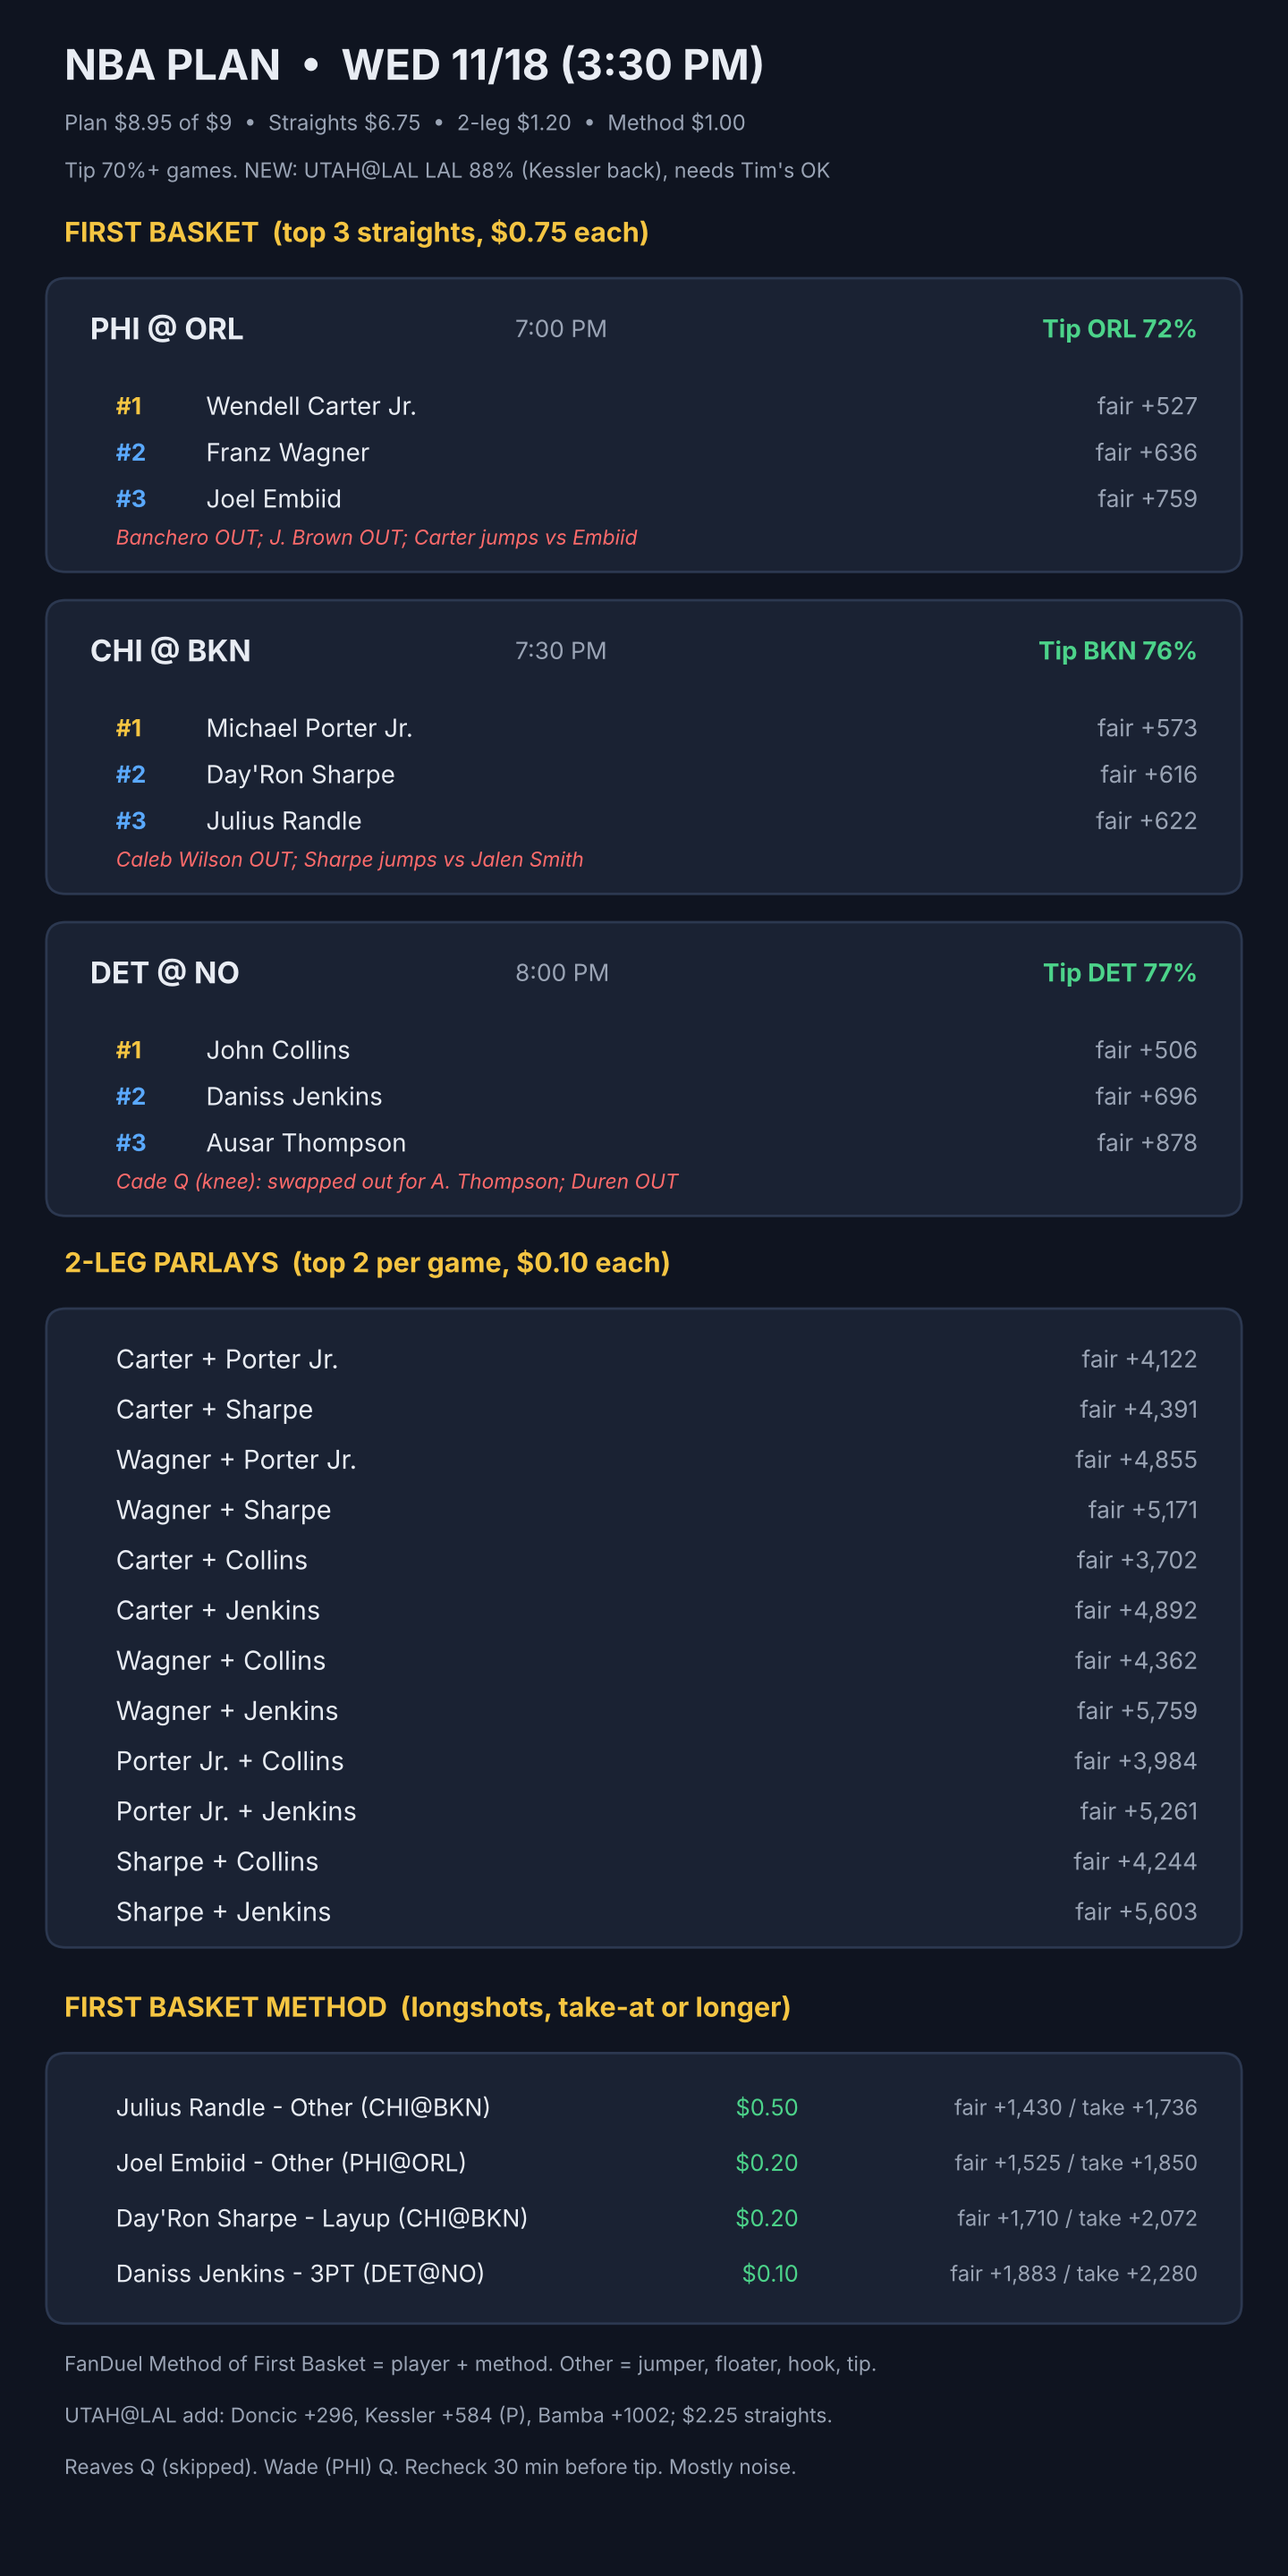
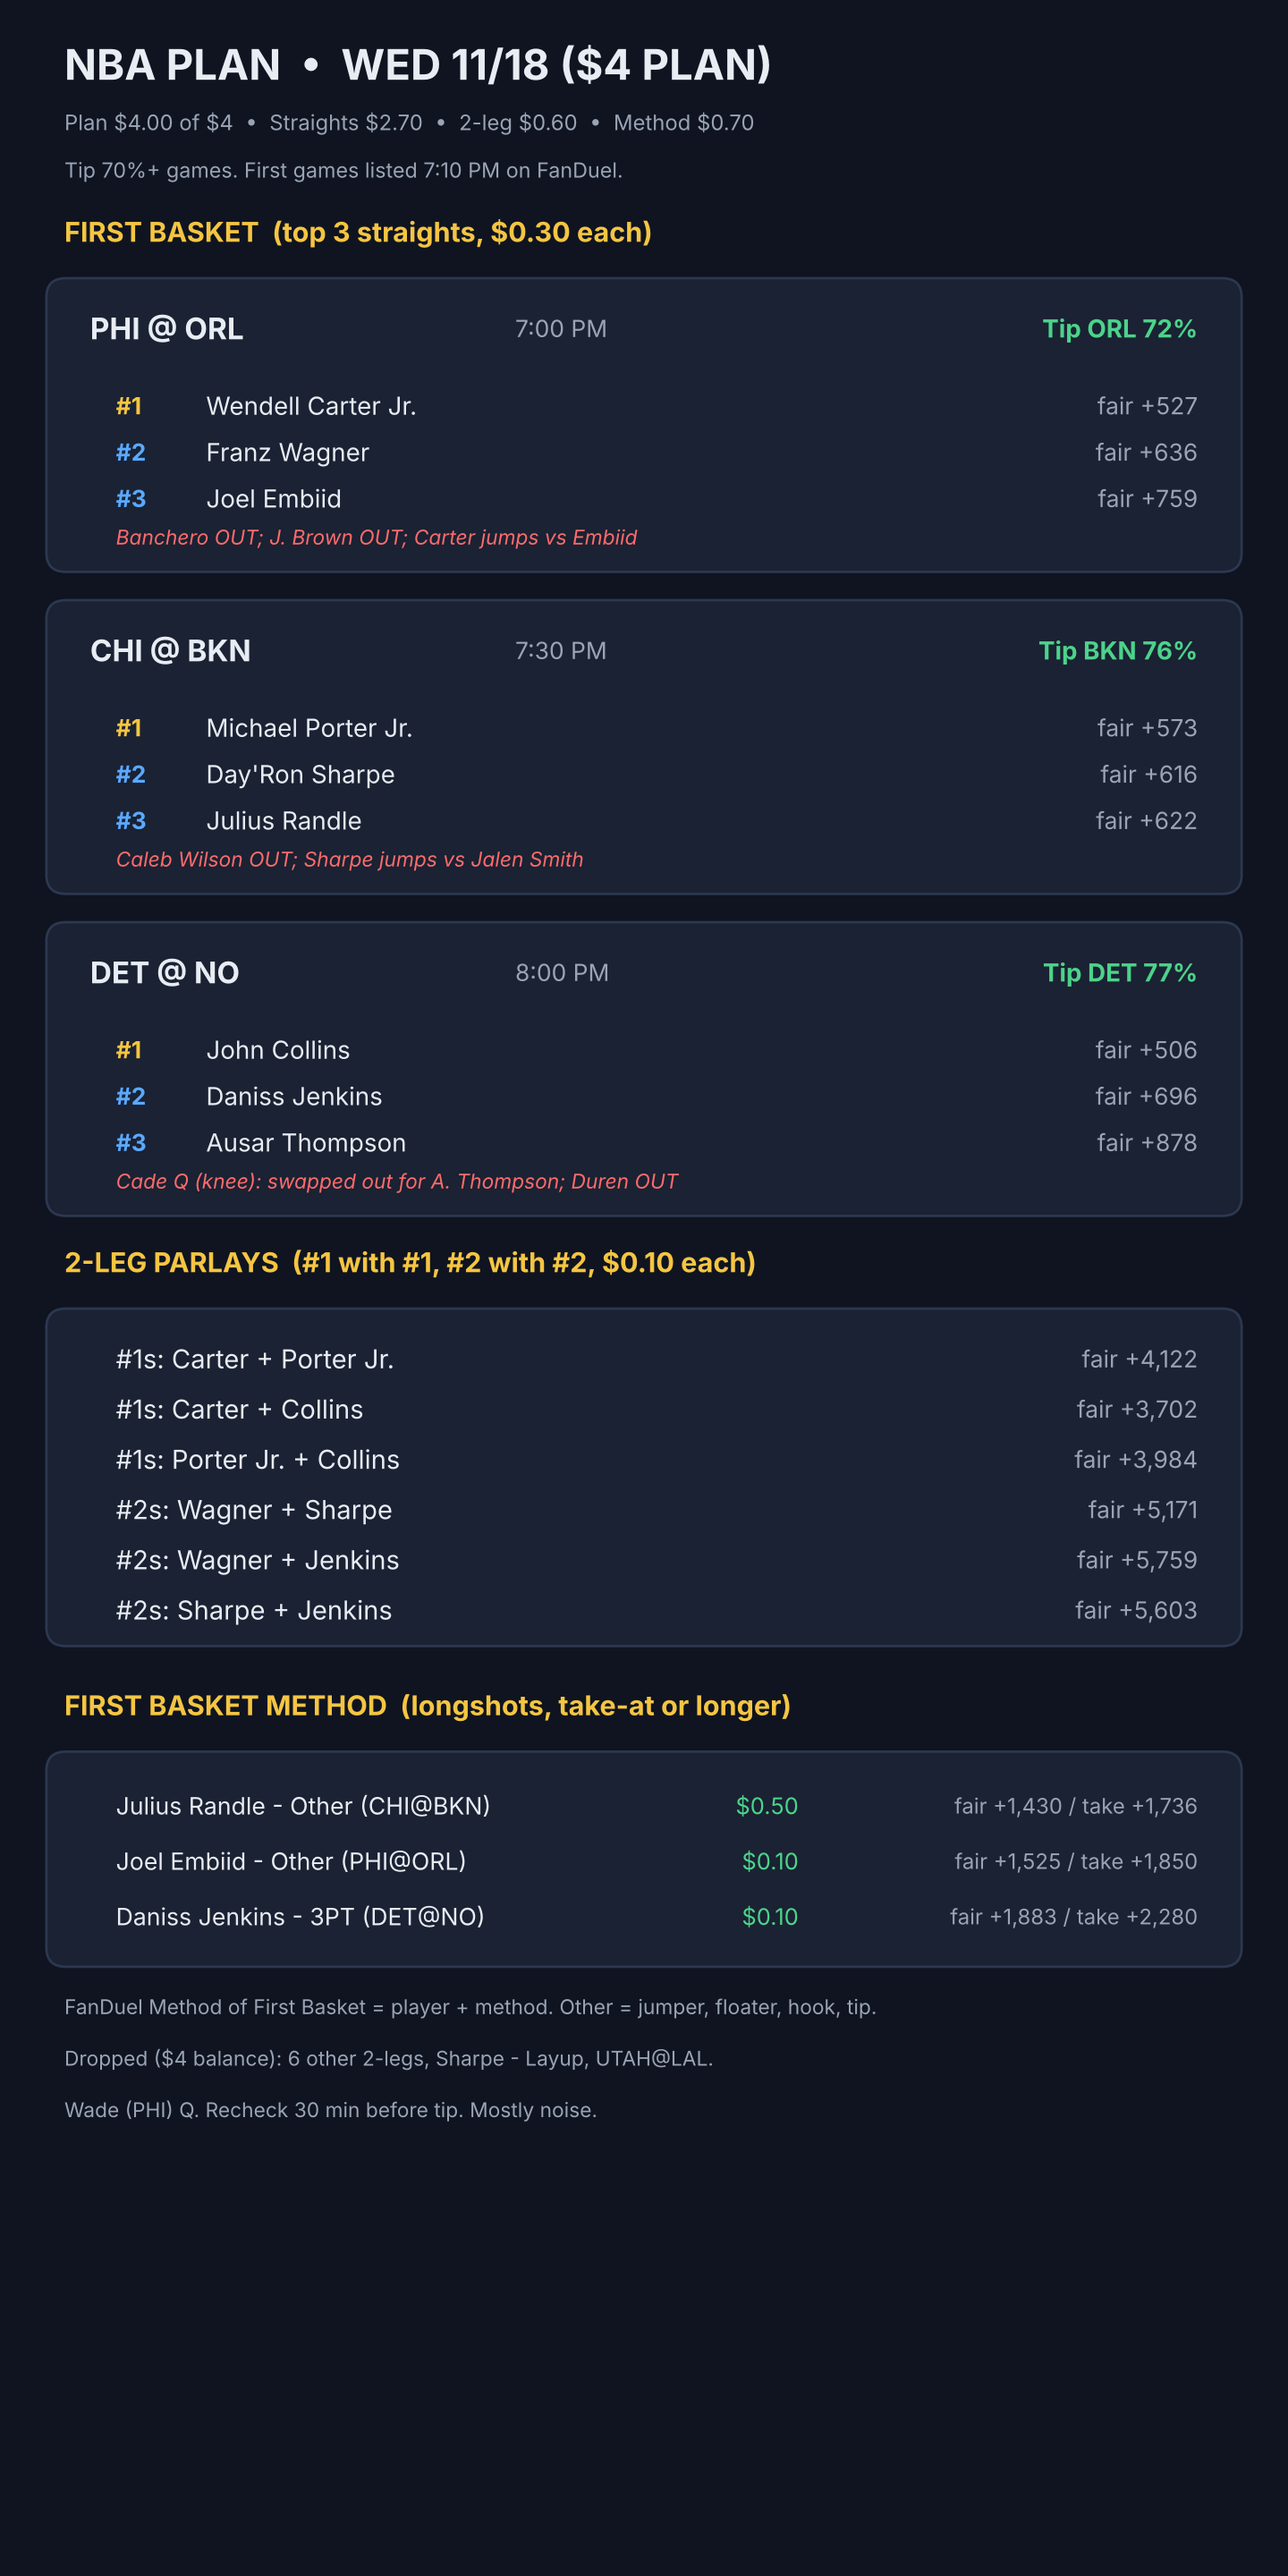
NBA 11/18: resize plan to $4 balance (stakes, play list, chart, bankroll)
Claude-Session: https://claude.ai/code/session_01TQWUAJSyeczoh1eaRjRwmB

diff --git a/analysis/nba/out/charts/plan_chart.py b/analysis/nba/out/charts/plan_chart.py
@@ -3,21 +3,20 @@ import matplotlib.pyplot as plt
 plt.rcParams['text.parse_math']=False
 from matplotlib.patches import FancyBboxPatch
 BG='#0f1420'; CARD='#1a2233'; TXT='#e8ecf3'; MUTED='#9aa4b5'; GOLD='#f5c542'; BLUE='#5aa9ff'; GREEN='#4cd38a'; RED='#ff6b6b'
-DATE='WED 11/18 (3:30 PM)'; OUT='analysis/nba/out/charts/plan_2026-11-18.png'
+DATE='WED 11/18 ($4 PLAN)'; OUT='analysis/nba/out/charts/plan_2026-11-18.png'
 fb=[('PHI @ ORL','7:00','ORL 72%',[('Wendell Carter Jr.','+527'),('Franz Wagner','+636'),('Joel Embiid','+759')],'Banchero OUT; J. Brown OUT; Carter jumps vs Embiid'),
     ('CHI @ BKN','7:30','BKN 76%',[('Michael Porter Jr.','+573'),("Day'Ron Sharpe",'+616'),('Julius Randle','+622')],'Caleb Wilson OUT; Sharpe jumps vs Jalen Smith'),
     ('DET @ NO','8:00','DET 77%',[('John Collins','+506'),('Daniss Jenkins','+696'),('Ausar Thompson','+878')],'Cade Q (knee): swapped out for A. Thompson; Duren OUT')]
-meth=[('Julius Randle - Other (CHI@BKN)','$0.50','+1,430','+1,736'),('Joel Embiid - Other (PHI@ORL)','$0.20','+1,525','+1,850'),("Day'Ron Sharpe - Layup (CHI@BKN)",'$0.20','+1,710','+2,072'),('Daniss Jenkins - 3PT (DET@NO)','$0.10','+1,883','+2,280')]
-pars=[('Carter + Porter Jr.','+4,122'),('Carter + Sharpe','+4,391'),('Wagner + Porter Jr.','+4,855'),('Wagner + Sharpe','+5,171'),
-      ('Carter + Collins','+3,702'),('Carter + Jenkins','+4,892'),('Wagner + Collins','+4,362'),('Wagner + Jenkins','+5,759'),
-      ('Porter Jr. + Collins','+3,984'),('Porter Jr. + Jenkins','+5,261'),('Sharpe + Collins','+4,244'),('Sharpe + Jenkins','+5,603')]
+meth=[('Julius Randle - Other (CHI@BKN)','$0.50','+1,430','+1,736'),('Joel Embiid - Other (PHI@ORL)','$0.10','+1,525','+1,850'),('Daniss Jenkins - 3PT (DET@NO)','$0.10','+1,883','+2,280')]
+pars=[('#1s: Carter + Porter Jr.','+4,122'),('#1s: Carter + Collins','+3,702'),('#1s: Porter Jr. + Collins','+3,984'),
+      ('#2s: Wagner + Sharpe','+5,171'),('#2s: Wagner + Jenkins','+5,759'),('#2s: Sharpe + Jenkins','+5,603')]
 fig=plt.figure(figsize=(7.2,14.4),dpi=200); fig.patch.set_facecolor(BG)
 ax=fig.add_axes([0,0,1,1]); ax.set_xlim(0,100); ax.set_ylim(0,200); ax.axis('off')
 def card(x,y,w,h): ax.add_patch(FancyBboxPatch((x,y),w,h,boxstyle='round,pad=0.4,rounding_size=1.5',fc=CARD,ec='#2c3850',lw=1))
 ax.text(5,195,'NBA PLAN  •  '+DATE,color=TXT,fontsize=17,weight='bold',va='center')
-ax.text(5,190.5,'Plan $8.95 of $9  •  Straights $6.75  •  2-leg $1.20  •  Method $1.00',color=MUTED,fontsize=8.6,va='center')
-ax.text(5,186.8,'Tip 70%+ games. NEW: UTAH@LAL LAL 88% (Kessler back), needs Tim\'s OK',color=MUTED,fontsize=8.4,va='center')
-ax.text(5,182,'FIRST BASKET  (top 3 straights, $0.75 each)',color=GOLD,fontsize=11,weight='bold',va='center')
+ax.text(5,190.5,'Plan $4.00 of $4  •  Straights $2.70  •  2-leg $0.60  •  Method $0.70',color=MUTED,fontsize=8.6,va='center')
+ax.text(5,186.8,'Tip 70%+ games. First games listed 7:10 PM on FanDuel.',color=MUTED,fontsize=8.4,va='center')
+ax.text(5,182,'FIRST BASKET  (top 3 straights, $0.30 each)',color=GOLD,fontsize=11,weight='bold',va='center')
 y=178
 for g,t,tip,picks,note in fb:
     h=22; card(4,y-h,92,h)
@@ -31,7 +30,7 @@ for g,t,tip,picks,note in fb:
         ax.text(93,yy,'fair '+o,color=MUTED,fontsize=9.5,va='center',ha='right')
     ax.text(9,y-h+2.3,note,color=RED,fontsize=8.2,va='center',style='italic')
     y-=h+3
-ax.text(5,y-1,'2-LEG PARLAYS  (top 2 per game, $0.10 each)',color=GOLD,fontsize=11,weight='bold',va='center')
+ax.text(5,y-1,'2-LEG PARLAYS  (#1 with #1, #2 with #2, $0.10 each)',color=GOLD,fontsize=11,weight='bold',va='center')
 y-=5; h=len(pars)*3.9+2; card(4,y-h,92,h)
 for i,(n,f) in enumerate(pars):
     yy=y-3.5-i*3.9
@@ -45,6 +44,6 @@ for i,(n,st,f,t) in enumerate(meth):
     ax.text(93,yy,'fair '+f+' / take '+t,color=MUTED,fontsize=8.6,va='center',ha='right')
 y=y-h-3.5
 ax.text(5,y,'FanDuel Method of First Basket = player + method. Other = jumper, floater, hook, tip.',color=MUTED,fontsize=8.2,va='center')
-ax.text(5,y-4,'UTAH@LAL add: Doncic +296, Kessler +584 (P), Bamba +1002; $2.25 straights.',color=MUTED,fontsize=8.2,va='center')
-ax.text(5,y-8,'Reaves Q (skipped). Wade (PHI) Q. Recheck 30 min before tip. Mostly noise.',color=MUTED,fontsize=8.2,va='center')
+ax.text(5,y-4,'Dropped ($4 balance): 6 other 2-legs, Sharpe - Layup, UTAH@LAL.',color=MUTED,fontsize=8.2,va='center')
+ax.text(5,y-8,'Wade (PHI) Q. Recheck 30 min before tip. Mostly noise.',color=MUTED,fontsize=8.2,va='center')
 fig.savefig(OUT,facecolor=BG)

diff --git a/analysis/nba/out/play_list_2026-11-18.md b/analysis/nba/out/play_list_2026-11-18.md
@@ -1,5 +1,28 @@
 # NBA first basket bets, Wed 11/18 (10 AM list, 3:30 PM lineup update)
 
+**Evening update: $4 PLAN** (Tim, FanDuel $4.00, not $9; FanDuel lists the first games at 7:10 PM):
+9 straights at $0.30 = $2.70, 6 two-legs at $0.10 = $0.60, 3 method longshots = $0.70. Total $4.00.
+Dropped ($4 balance): the other 6 two-legs, Sharpe - Layup, UTAH@LAL. Bets rows 1660-1684 edited (dropped rows stake 0, "dropped ($4 balance)").
+The $8.95 sections below are kept for reference; the checklists are the $4 plan.
+
+## $4 plan checklist
+
+Straights, $0.30 each (9 = $2.70)
+- [ ] PHI@ORL: Carter (+527), Wagner (+636), Embiid (+759)
+- [ ] CHI@BKN: Porter Jr. (+573), Sharpe (+616), Randle (+622)
+- [ ] DET@NO: Collins (+506), Jenkins (+696), Ausar Thompson (+878, replaces Cade, Q)
+
+2-legs, $0.10 each (6 = $0.60)
+- [ ] #1 with #1: Carter + Porter Jr. (+4,122), Carter + Collins (+3,702), Porter Jr. + Collins (+3,984)
+- [ ] #2 with #2: Wagner + Sharpe (+5,171), Wagner + Jenkins (+5,759), Sharpe + Jenkins (+5,603)
+
+Method longshots (3 = $0.70)
+- [ ] Julius Randle - Other, $0.50 (take +1,736 or longer)
+- [ ] Joel Embiid - Other, $0.10 (take +1,850 or longer)
+- [ ] Daniss Jenkins - Three Point Field Goal, $0.10 (take +2,280 or longer)
+
+---
+
 **3:30 PM update** (ESPN injuries + RotoWire expected fives, chain model rerun):
 - Cade Cunningham Q (right knee soreness): swapped out. DET@NO straights now Collins, Jenkins, Ausar Thompson (#4, +878); his 4 two-legs now use Jenkins. Bets rows 1667-1668, 1674/1676/1678/1680 edited.
 - UTAH@LAL now qualifies: Kessler back (probable) and starting, jumps vs Bamba, LAL 88% (81% if Hayes, Q, jumps instead). Top 3: Doncic 25% +296, Kessler 15% +584 (P), Reaves 14% +625 (Q, skip) so #3 Bamba 9% +1,002. Not added: needs Tim's OK (see options below).
@@ -8,7 +31,7 @@
 - Add options: (A) new money $3.45: Doncic, Kessler, Bamba $0.75 straights ($2.25) + 12 two-legs Doncic/Kessler x other games' top 2 at $0.10 ($1.20). (B) no new money, stay at $9: 12 straights at $0.60 ($7.20) + current 12 two-legs ($1.20) + Randle - Other $0.50 only = $8.90.
 
 
-**Plan $8.95** (FanDuel $9 at 8:47 AM): 9 straights at $0.75 = $6.75, 12 two-leg at $0.10 = $1.20, 4 method longshots = $1.00. Leaves $0.05.
+**Earlier plan $8.95, replaced by the $4 plan** (FanDuel $9 at 8:47 AM): 9 straights at $0.75 = $6.75, 12 two-leg at $0.10 = $1.20, 4 method longshots = $1.00. Leaves $0.05.
 Sized to $9 per Tim (Jarvis 8:47 AM); the $100 version is dropped.
 
 Games in (tip 70%+): PHI@ORL 7:00 (ORL 72%), CHI@BKN 7:30 (BKN 76%), DET@NO 8:00 (DET 77%).
@@ -20,7 +43,7 @@ Watch: UTAH@LAL. Redick expects Kessler back; if he starts and jumps, LAL tip go
 ORL is 5/5 on team top-2 this season, the best model record on the slate.
 First basket is mostly noise; keep to the plan. Recheck about 30 min before tip. In game order, check off as you place.
 
-## Straights, $0.75 each (9 = $6.75)
+## Straights, $0.75 each (9 = $6.75) [superseded: $0.30 in the $4 plan]
 
 **PHI@ORL 7:00** (tip ORL 72%, Embiid vs Carter)
 - [ ] #1 Wendell Carter Jr., fair +527
@@ -37,7 +60,7 @@ First basket is mostly noise; keep to the plan. Recheck about 30 min before tip.
 - [ ] #2 Daniss Jenkins, fair +696
 - [ ] #3 Ausar Thompson, fair +878 (replaced Cade, Q knee)
 
-## 2-leg, $0.10 each (12 = $1.20)
+## 2-leg, $0.10 each (12 = $1.20) [superseded: 6 kept in the $4 plan]
 
 All six #1/#2 picks are healthy after the Cade swap, so all 12 are "solid".
 *PHI@ORL + CHI@BKN*: Carter + Porter Jr. (+4,122), Carter + Sharpe (+4,391), Wagner + Porter Jr. (+4,855), Wagner + Sharpe (+5,171)
@@ -45,7 +68,7 @@ All six #1/#2 picks are healthy after the Cade swap, so all 12 are "solid".
 *CHI@BKN + DET@NO*: Porter Jr. + Collins (+3,984), Porter Jr. + Jenkins (+5,261), Sharpe + Collins (+4,244), Sharpe + Jenkins (+5,603)
 (fair shown; no 3-leg tonight to stay inside $9)
 
-## Method of First Basket (longshots), 4 = $1.00
+## Method of First Basket (longshots), 4 = $1.00 [superseded: Randle $0.50, Embiid $0.10, Jenkins $0.10; Sharpe dropped]
 
 FanDuel format (fixed 11/18 10:30 AM): each bet is one player + one method (Dunk, Free Throw, Layup, Other,
 Three Point Field Goal). Other = jumpers, floaters, hooks, tip shots. Ranked by likelihood. Bet only at take-at

diff --git a/analysis/bankroll.md b/analysis/bankroll.md
@@ -27,3 +27,4 @@ Balance snapshots from Tim's FanDuel screenshots. Newest at the bottom. Deposits
 | 11/16/26 | 8:39 PM | $63.21 | after placing PHX@DEN first basket straights ($60: Jokic +500, Murray +450, Cam Johnson +950, $20 each, placed 8:32 PM, tip 9:10 PM; Bets rows 1471-1473). Day started at $201.31 with a $100 budget; $138.10 out today net of any payouts, so about $78 went to other 11/16 bets. None of those are marked placed on the sheet yet (no slips logged). |
 | 11/17/26 | 12:22 PM | $39.41 | after placing Rutgers +16.5 -110 $1.00 (CBB, 2 PM ET; Bets row 1547) |
 | 11/18/26 | 8:47 AM | $9.00 | Tim (via Jarvis). Down from $39.41 on 11/17; a $60 withdrawal bounced back and he deposited $15 since. 11/18 NBA first basket plan sized to $8.95 (9 straights $0.75, 12 two-leg $0.10, 4 method longshots $1.00). |
+| 11/18/26 | evening | $4.00 | Tim (via Jarvis): balance $4.00, not $9. 11/18 NBA plan resized to $4.00: 9 straights $0.30, 6 two-legs $0.10, method longshots Randle $0.50, Embiid $0.10, Jenkins $0.10. Dropped 6 two-legs, Sharpe - Layup, UTAH@LAL. Bets rows 1660-1684. |
